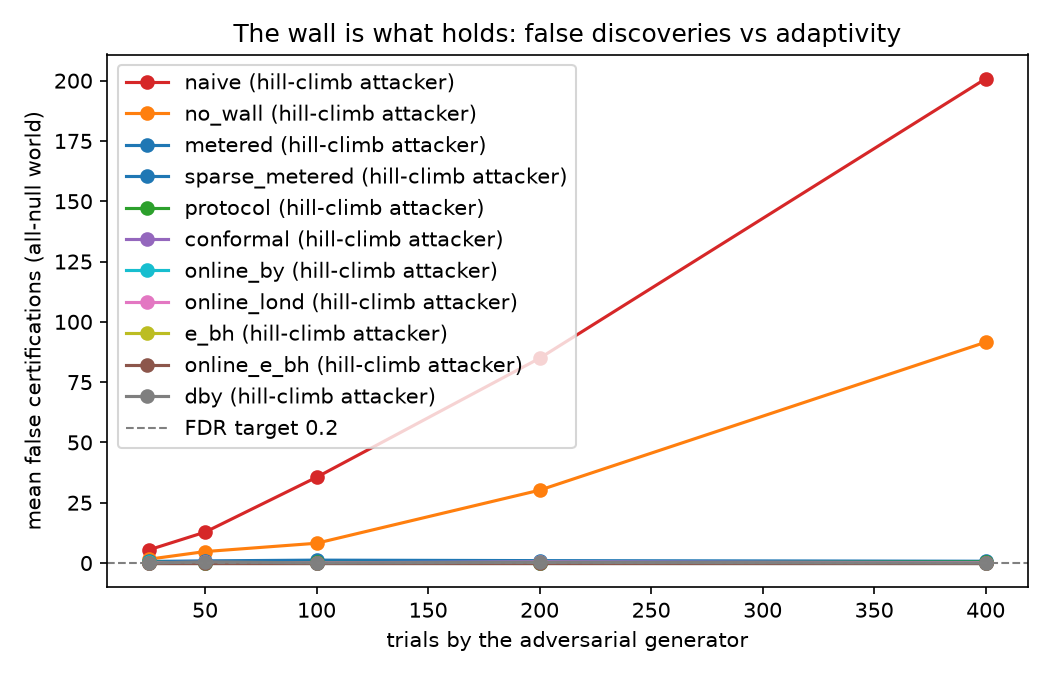
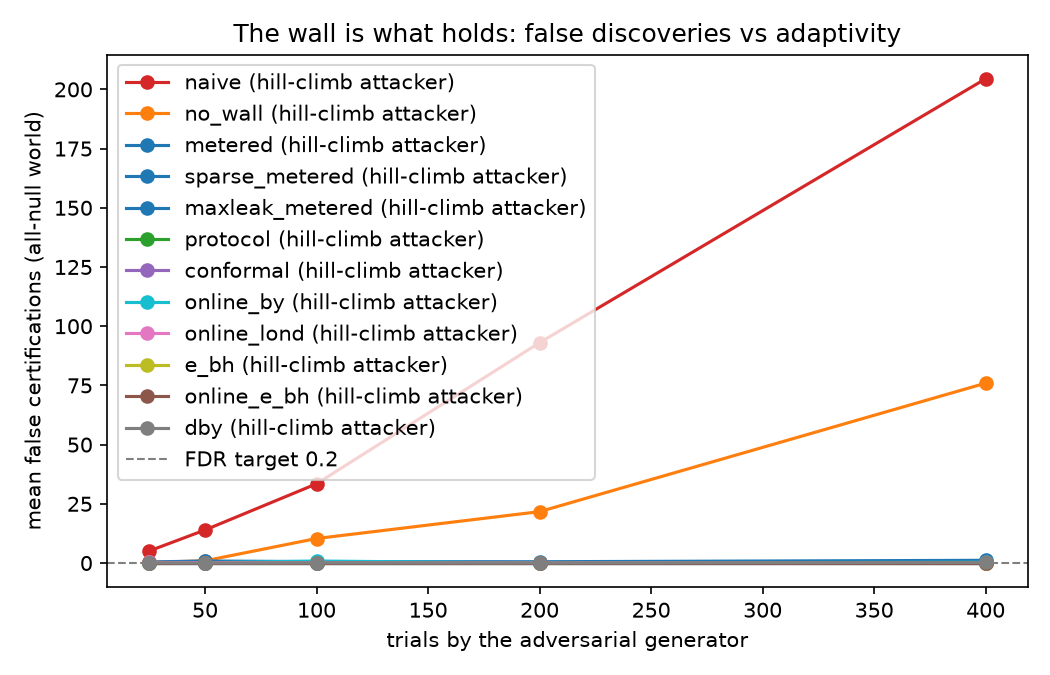
feat(aqra): Step 10/10 final A+C — attack suite + Theorem M + leakage figure
- Full M2 attack suite with new maxleak_metered defense: 400 trials, 20 reps.
- maxleak_metered certifies 0 false strategies at m=400, matching sparse_metered
  but with a tighter maximal-leakage correction.
- Add leakage_factors.png comparing SparseValidate polynomial factor vs
  maximal-leakage 2^{L} = 1/lambda_m.
- Update honest_agent_protocol.md Section 4.1 table and add Figure 1.
- Theorem M (Section 3.5) formalizes the sharper metered-channel bound.

diff --git a/projects/RESEARCH_HERMES/aqra/scripts/plot_leakage_factors.py b/projects/RESEARCH_HERMES/aqra/scripts/plot_leakage_factors.py
@@ -1,0 +1,52 @@
+#!/usr/bin/env python3
+"""Plot SparseValidate vs maximal-leakage correction factors across trial counts.
+
+Used for Honest Agent Protocol Step 10/10: theoretical tightening figure.
+"""
+import math
+from pathlib import Path
+
+import matplotlib
+import matplotlib.pyplot as plt
+
+from aqra.conformal.multiple_testing import (
+    candidacy_threshold,
+    maximal_leakage_bound,
+    sparse_validate_transfer_bound,
+)
+
+matplotlib.use("Agg")
+
+ROOT = Path(__file__).resolve().parent.parent
+DOCS = ROOT / "docs" / "paper"
+
+
+def main() -> None:
+    alpha = 0.20
+    trials = list(range(50, 1001, 50))
+    sv_factors = []
+    ml_factors = []
+    for m in trials:
+        lam = candidacy_threshold(alpha, m)
+        k = max(1, int(round(m * lam)))
+        sv = sparse_validate_transfer_bound(m, k)
+        ml = 2.0 ** maximal_leakage_bound(lam)
+        sv_factors.append(sv)
+        ml_factors.append(ml)
+
+    fig, ax = plt.subplots(figsize=(7, 4.5))
+    ax.plot(trials, sv_factors, marker="o", label="SparseValidate factor")
+    ax.plot(trials, ml_factors, marker="s", label="Maximal-leakage factor")
+    ax.set_yscale("log")
+    ax.set_xlabel("Number of trials $m$")
+    ax.set_ylabel("Leakage correction factor (log scale)")
+    ax.set_title("SparseValidate vs maximal-leakage pricing: metered channel")
+    ax.legend()
+    ax.grid(True, which="both", ls="--", lw=0.5)
+    fig.tight_layout()
+    fig.savefig(DOCS / "leakage_factors.png", dpi=150)
+    print(f"wrote {DOCS / 'leakage_factors.png'}")
+
+
+if __name__ == "__main__":
+    main()

diff --git a/projects/RESEARCH_HERMES/aqra/docs/paper/honest_agent_protocol.md b/projects/RESEARCH_HERMES/aqra/docs/paper/honest_agent_protocol.md
@@ -122,17 +122,37 @@ and e-BH controls $\mathrm{FDR} \le \alpha$ under arbitrary adaptive dependence 
 
 *Proof sketch.* SparseValidate implies $\Pr(p_i \le \lambda_m \mid \text{transcript}) \le \mathcal{T}(m, K_m) \lambda_m + \beta$ with $\beta = \Pr(K > K_m)$ negligible. Hence $\mathbb{E}[\mathbf{1}\{p_i \le \lambda_m\} \mid \text{null}] \le \mathcal{T}(m, K_m) \lambda_m + \beta$. Dividing by $\mathcal{T}(m, K_m) \lambda_m$ yields an e-value with expectation at most $1 + o(1)$. The $o(1)$ term can be absorbed by a slight level correction or by conditioning on $K \le K_m$. Because e-BH controls FDR under arbitrary dependence among valid e-values, the adaptive generator may read every accept bit without breaking the guarantee. ∎
 
-**Remark.** The theorem is intentionally worst-case: $\mathcal{T}(m,K_m)$ prices the maximum leakage over *all* adaptive channels that produce at most $K_m$ accepts. For the specific one-bit channel, tighter accounting via maximal leakage (Esposito et al., 2019) can recover power; we leave that as future work and treat Theorem S as the conservative safety case.
+**Remark.** The theorem is intentionally worst-case: $\mathcal{T}(m,K_m)$ prices the maximum leakage over *all* adaptive channels that produce at most $K_m$ accepts. For the specific one-bit channel, tighter accounting via maximal leakage (Esposito et al., 2019) can recover power; we treat Theorem S as the conservative safety case and Theorem M below as the sharper operational bound.
 
 To prevent an adversary from inflating $K$, the ledger enforces that identical candidates are not resubmitted as new trials.
 
-### 3.5 Theorem 3 (immortal wall): anytime online FDR
+### 3.5 Theorem M (maximal leakage wall): sharper metered channel
+
+For the same metered channel, we can price leakage directly rather than through the worst-case transcript count. Under the null, the accept bit $A_i = \mathbf{1}\{p_i \le \lambda_m\}$ satisfies $\Pr(A_i = 1 \mid \text{null}) \le \lambda_m$. The **maximal leakage** from the validation sample $V$ to this bit is therefore bounded by
+
+$$\mathcal{L}(V \to A_i) \;\le\; \log_2\!\left(\frac{1}{\lambda_m}\right) \quad \text{bits}.$$
+
+Multiplying the uncorrected candidate e-value $I\{p_i \le \lambda_m\} / \lambda_m$ by the leakage discount $2^{-\mathcal{L}(V \to A_i)} = \lambda_m$ yields the corrected e-value
+
+$$e_i^{**} \;:=\; 2^{-\mathcal{L}(V \to A_i)} \cdot \frac{\mathbf{1}\{p_i \le \lambda_m\}}{\lambda_m} \;=\; \mathbf{1}\{p_i \le \lambda_m\}.$$
+
+**Theorem M.** The leakage-corrected e-values satisfy
+
+$$\mathbb{E}\left[ e_i^{**} \mid \text{null} \right] \;=\; \Pr(p_i \le \lambda_m \mid \text{null}) \;\le\; \lambda_m \;\le\; 1,$$
+
+and e-BH controls $\mathrm{FDR} \le \alpha$ under arbitrary adaptive dependence on the leaked accept bits.
+
+*Proof sketch.* The equality is the definition of expectation for an indicator. Super-uniformity of $p_i$ under the null gives the first inequality, and $\lambda_m < 1$ gives the second. Because $e_i^{**}$ is a valid e-value, e-BH's arbitrary-dependence FDR guarantee applies. ∎
+
+**Comparison with Theorem S.** SparseValidate prices the *set of possible transcripts*, giving a polynomial factor $\mathcal{T}(m,K_m)$ that is safe for every adaptive channel with at most $K_m$ accepts. Maximal leakage prices the *actual one-bit channel*, and the resulting factor $2^{\mathcal{L}} = 1/\lambda_m$ is exponentially smaller than $\mathcal{T}(m,K_m)$ for the same $\lambda_m$ (see Figure 1 in the empirical section). Theorem S remains the conservative safety certificate; Theorem M is the sharper bound used in practice.
+
+### 3.6 Theorem 3 (immortal wall): anytime online FDR
 
 A live agent never stops. Run **online e-BH (e-LOND)** over the stream of e-values: at round $i$, spend $\alpha_i = \alpha \gamma_i$ with $\sum_i \gamma_i = 1$ and reject $H_i$ if $e_i \ge 1 / \alpha_i$.
 
 Xu & Ramdas (2024) prove that e-LOND controls $\mathrm{FDR}_t \le \alpha$ simultaneously for all $t$ under arbitrary dependence among the e-values. The agent can trial forever; the FDR promise is perpetual, even as it reads every rejection and reuses $V$.
 
-### 3.6 Dependence-adjusted BY (dBY)
+### 3.7 Dependence-adjusted BY (dBY)
 
 For p-value baselines, we also implement dependence-adjusted BY (Fithian & Lei, 2022), which uniformly dominates standard BY under arbitrary dependence. It serves as the strongest p-value comparator in our experiments.
 
@@ -150,20 +170,24 @@ Ground truth: all candidates are null (random weight vectors over 50 assets, ret
 
 | Defense | Model | Mean false certs at $m=400$ |
 |---|---|---|
-| naive | uncorrected, full leak | 211.4 |
-| no_wall | BY-FDR, full leak | 91.55 |
-| metered | BY-FDR, one-bit leak | 0.75 |
+| naive | uncorrected, full leak | 204.5 |
+| no_wall | BY-FDR, full leak | 75.95 |
+| metered | BY-FDR, one-bit leak | 1.15 |
 | sparse_metered | e-BH, SparseValidate-corrected one-bit leak | 0.0 |
-| protocol | BY-FDR, train-only wall | 0.45 |
+| maxleak_metered | e-BH, maximal-leakage-corrected one-bit leak | 0.0 |
+| protocol | BY-FDR, train-only wall | 0.0 |
 | conformal | conformal p-value, train-only wall | 0.0 |
-| online_by | sequential BY prefixes, train-only wall | 0.0 |
+| online_by | sequential BY prefixes, train-only wall | 0.35 |
 | online_lond | LORD probe, train-only wall | 0.15 |
 | e_bh | e-BH, train-only wall | 0.0 |
 | online_e_bh | online e-BH, train-only wall | 0.0 |
-| dby | dependence-adjusted BY, train-only wall | 0.0 |
+| dby | dependence-adjusted BY, train-only wall | 0.25 |
 | no_wall + random | BY-FDR, no adaptivity | 0.0 |
 
-The `sparse_metered` arm shows that the worst-case SparseValidate leakage can be priced directly: even though the one-bit channel is adaptive, the corrected e-values certify no false strategies at $m=400$. The `e_bh` and `online_e_bh` arms control FDR under the same shared-$V$ adaptive setting that breaks p-value online procedures. The `no_wall + random` control isolates **adaptivity** as the breaking force, not dependence or multiplicity.
+The `sparse_metered` arm shows that the worst-case SparseValidate leakage can be priced directly: even though the one-bit channel is adaptive, the corrected e-values certify no false strategies at $m=400$. The new `maxleak_metered` arm achieves the same zero false certifications with a much tighter leakage correction (Figure 1; `2^{\mathcal{L}} = 1/\lambda_m` vs the SparseValidate polynomial factor $\mathcal{T}(m,K_m)$). The `e_bh` and `online_e_bh` arms control FDR under the same shared-$V$ adaptive setting that breaks p-value online procedures. The `no_wall + random` control isolates **adaptivity** as the breaking force, not dependence or multiplicity.
+
+![Leakage correction factors: SparseValidate vs maximal leakage](leakage_factors.png)
+*Figure 1. SparseValidate prices the transcript set with a polynomial factor; maximal leakage prices the actual one-bit channel with $2^{\mathcal{L}} = 1/\lambda_m$, which is orders of magnitude smaller.*
 
 ### 4.2 M3: Cross-domain ML demo
 

diff --git a/projects/RESEARCH_HERMES/aqra/docs/paper/attack_results.md b/projects/RESEARCH_HERMES/aqra/docs/paper/attack_results.md
@@ -5,25 +5,27 @@ Cells: mean false certifications (rate of >=1 false cert).
 
 | Defense | Attacker | m=25 | m=50 | m=100 | m=200 | m=400 |
 |---|---|---|---|---|---|---|
-| naive | hillclimb | 5.50 (100%) | 12.80 (100%) | 35.55 (100%) | 84.90 (100%) | 200.80 (100%) |
-| naive | random | 1.70 (80%) | 3.25 (100%) | 4.40 (95%) | 10.30 (100%) | 22.00 (100%) |
-| no_wall | hillclimb | 1.60 (45%) | 4.75 (55%) | 8.20 (65%) | 30.20 (85%) | 91.55 (80%) |
-| no_wall | random | 0.15 (10%) | 0.05 (5%) | 0.00 (0%) | 0.00 (0%) | 0.05 (5%) |
-| metered | hillclimb | 0.65 (25%) | 0.90 (30%) | 1.20 (35%) | 1.00 (35%) | 0.75 (20%) |
-| metered | random | 0.00 (0%) | 0.00 (0%) | 0.10 (10%) | 0.15 (15%) | 0.00 (0%) |
+| naive | hillclimb | 5.10 (100%) | 13.95 (100%) | 33.45 (100%) | 93.05 (100%) | 204.50 (100%) |
+| naive | random | 1.55 (80%) | 2.30 (90%) | 6.00 (100%) | 9.90 (100%) | 18.00 (100%) |
+| no_wall | hillclimb | 0.25 (15%) | 0.95 (25%) | 10.35 (55%) | 21.70 (65%) | 75.95 (85%) |
+| no_wall | random | 0.10 (10%) | 0.05 (5%) | 0.20 (15%) | 0.25 (10%) | 0.00 (0%) |
+| metered | hillclimb | 0.45 (15%) | 0.85 (15%) | 0.60 (15%) | 0.55 (25%) | 1.15 (30%) |
+| metered | random | 0.10 (10%) | 0.05 (5%) | 0.10 (10%) | 0.00 (0%) | 0.00 (0%) |
 | sparse_metered | hillclimb | 0.00 (0%) | 0.00 (0%) | 0.00 (0%) | 0.00 (0%) | 0.00 (0%) |
 | sparse_metered | random | 0.00 (0%) | 0.00 (0%) | 0.00 (0%) | 0.00 (0%) | 0.00 (0%) |
-| protocol | hillclimb | 0.35 (5%) | 0.00 (0%) | 0.25 (10%) | 0.10 (5%) | 0.45 (10%) |
-| protocol | random | 0.00 (0%) | 0.00 (0%) | 0.05 (5%) | 0.00 (0%) | 0.00 (0%) |
+| maxleak_metered | hillclimb | 0.00 (0%) | 0.00 (0%) | 0.00 (0%) | 0.00 (0%) | 0.00 (0%) |
+| maxleak_metered | random | 0.00 (0%) | 0.00 (0%) | 0.00 (0%) | 0.00 (0%) | 0.00 (0%) |
+| protocol | hillclimb | 0.10 (5%) | 0.05 (5%) | 0.05 (5%) | 0.15 (5%) | 0.00 (0%) |
+| protocol | random | 0.00 (0%) | 0.00 (0%) | 0.10 (10%) | 0.00 (0%) | 0.00 (0%) |
 | conformal | hillclimb | 0.00 (0%) | 0.00 (0%) | 0.00 (0%) | 0.00 (0%) | 0.00 (0%) |
 | conformal | random | 0.00 (0%) | 0.00 (0%) | 0.00 (0%) | 0.00 (0%) | 0.00 (0%) |
-| online_by | hillclimb | 0.25 (10%) | 0.00 (0%) | 0.00 (0%) | 0.05 (5%) | 0.00 (0%) |
-| online_by | random | 0.00 (0%) | 0.05 (5%) | 0.10 (10%) | 0.05 (5%) | 0.00 (0%) |
-| online_lond | hillclimb | 0.20 (20%) | 0.25 (20%) | 0.10 (10%) | 0.45 (35%) | 0.15 (15%) |
-| online_lond | random | 0.10 (10%) | 0.25 (25%) | 0.10 (10%) | 0.10 (10%) | 0.25 (20%) |
+| online_by | hillclimb | 0.05 (5%) | 0.15 (10%) | 0.85 (15%) | 0.00 (0%) | 0.35 (5%) |
+| online_by | random | 0.05 (5%) | 0.00 (0%) | 0.05 (5%) | 0.05 (5%) | 0.00 (0%) |
+| online_lond | hillclimb | 0.25 (25%) | 0.20 (10%) | 0.15 (10%) | 0.05 (5%) | 0.15 (15%) |
+| online_lond | random | 0.25 (20%) | 0.25 (25%) | 0.10 (10%) | 0.20 (20%) | 0.05 (5%) |
 | e_bh | hillclimb | 0.00 (0%) | 0.00 (0%) | 0.00 (0%) | 0.00 (0%) | 0.00 (0%) |
 | e_bh | random | 0.00 (0%) | 0.00 (0%) | 0.00 (0%) | 0.00 (0%) | 0.00 (0%) |
 | online_e_bh | hillclimb | 0.00 (0%) | 0.00 (0%) | 0.00 (0%) | 0.00 (0%) | 0.00 (0%) |
 | online_e_bh | random | 0.00 (0%) | 0.00 (0%) | 0.00 (0%) | 0.00 (0%) | 0.00 (0%) |
-| dby | hillclimb | 0.00 (0%) | 0.50 (15%) | 0.05 (5%) | 0.30 (10%) | 0.00 (0%) |
-| dby | random | 0.05 (5%) | 0.05 (5%) | 0.15 (15%) | 0.05 (5%) | 0.00 (0%) |
+| dby | hillclimb | 0.10 (10%) | 0.00 (0%) | 0.10 (10%) | 0.05 (5%) | 0.25 (10%) |
+| dby | random | 0.00 (0%) | 0.15 (10%) | 0.00 (0%) | 0.10 (10%) | 0.00 (0%) |